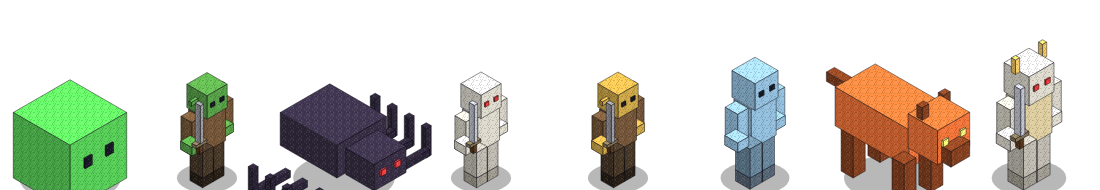
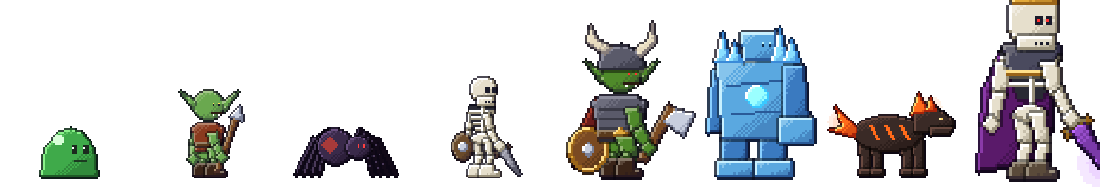
Volta ao 2D pixel art (visão de cima, sem 3D/blocos para o jogador); aura do equipamento por +nível (+4 a +15); site na identidade do jogo: arte pixel, botões de pedra/metal, cantos dourados, brasas no topo, eventos ao vivo e próximos com dados reais (/api/events), ENTRAR NO MUNDO na seleção
Claude-Session: https://claude.ai/code/session_01CgZq2X7nSewJbckutzQBFo

diff --git a/public/index.html b/public/index.html
@@ -9,7 +9,7 @@
   <link rel="icon" href="/favicon.svg" type="image/svg+xml">
   <link rel="stylesheet" href="/css/fonts.css?v=2">
   <link rel="stylesheet" href="/css/style.css?v=23">
-  <link rel="stylesheet" href="/css/landing.css?v=3">
+  <link rel="stylesheet" href="/css/landing.css?v=4">
 </head>
 <body>
   <a class="skip" href="#conteudo">Pular para o conteúdo</a>
@@ -25,6 +25,7 @@
       <a href="#classes">Classes</a>
       <a href="#mapas">Mapas</a>
       <a href="#equipamentos">Equipamentos</a>
+      <a href="#eventos">Eventos</a>
       <a href="#roadmap">Roadmap</a>
       <a href="#noticias">Notícias</a>
       <a href="#ranking">Ranking</a>
@@ -41,7 +42,7 @@
     <section class="hero" id="topo">
       <canvas id="hero-scene" aria-label="Cena animada: os seis heróis enfrentam monstros em Lorencia ao entardecer" role="img"></canvas>
       <div class="hero-copy">
-        <p class="logo-kicker">MMORPG idle · mundo de blocos em 3D</p>
+        <p class="logo-kicker">MMORPG idle · pixel art HD</p>
         <h1 class="logo logo-mc"><span class="lg-a">Muonline</span><span class="lg-b">Claude</span></h1>
         <p class="tagline">O RPG online que joga por você. Seu herói caça sozinho, sobe de nível e junta tesouros até com o jogo fechado, nos mesmos mapas que os outros jogadores.</p>
         <ul class="hero-chips" aria-label="Destaques">
@@ -52,7 +53,7 @@
           <li>PvP quando quiser</li>
         </ul>
         <div class="hero-actions">
-          <button class="btn btn-gold" id="btn-play" type="button" title="Mundo de blocos em 3D">▶ Jogar agora</button>
+          <button class="btn btn-gold" id="btn-play" type="button" title="Jogar no navegador, sem instalar">▶ JOGAR AGORA</button>
           <button class="btn btn-gold play-3d" id="btn-play-3d" type="button" hidden>Jogar 3D</button>
           <button class="btn" id="btn-hero-register" type="button">Criar conta</button>
           <button class="btn btn-ghost" id="btn-hero-ranking" type="button">Ver ranking</button>
@@ -90,9 +91,9 @@
       <h2 id="idle-title">O que é um jogo idle?</h2>
       <div class="idle-grid">
         <figure class="idle-phone">
-          <div class="phone-frame"><img src="/assets/landing/idle-phone.jpg?v=2" width="540" height="1099" loading="lazy"
-            alt="Tela do jogo no celular: o mundo de blocos com o herói, os monstros, o joystick e os botões de ataque"></div>
-          <figcaption>O mundo de blocos no celular: joystick, botões de ataque e o AUTO caçando sozinho.</figcaption>
+          <div class="phone-frame"><img src="/assets/landing/idle-phone.jpg?v=3" width="540" height="1099" loading="lazy"
+            alt="Tela do jogo no celular: o herói caçando no mapa, com o joystick e os botões de ataque"></div>
+          <figcaption>O jogo no celular: joystick, botões de ataque e o AUTO caçando sozinho.</figcaption>
         </figure>
         <div class="idle-copy">
           <p class="idle-lead">Num jogo <b>idle</b> o herói não precisa de você apertando botão o tempo todo. Ele caça, ganha EXP, junta Zen e itens <b>sozinho</b>. Você entra quando quiser para fazer as escolhas que deixam ele mais forte.</p>
@@ -120,7 +121,7 @@
     <section class="block showcase" id="jogo" aria-labelledby="jogo-title">
       <p class="eyebrow">Tudo que tem no jogo</p>
       <h2 id="jogo-title">Um mundo inteiro em pixel art</h2>
-      <figure class="show-hero"><img src="/assets/landing/heroes.png?v=3" alt="As seis classes de frente com asas: Cavaleiro Negro, Mago Negro, Elfa, Gladiador Mágico, Lorde Sombrio e Invocadora" width="1200" height="300"></figure>
+      <figure class="show-hero"><img src="/assets/landing/heroes.png?v=4" alt="As seis classes de frente com asas: Cavaleiro Negro, Mago Negro, Elfa, Gladiador Mágico, Lorde Sombrio e Invocadora" width="1200" height="300"></figure>
       <div class="feat-grid">
         <article class="feat"><b class="feat-num">6</b><h3>Classes de herói</h3><p>Cavaleiro Negro, Mago Negro, Elfa, Gladiador Mágico, Lorde Sombrio e Invocadora, cada um com animações de andar, atacar, levar dano e cair em todas as direções.</p></article>
         <article class="feat"><b class="feat-num">34</b><h3>Mapas até o nível 1000</h3><p>De Lorencia ao Exile: masmorras, desertos, ilhas no céu, torres e abismos, com área segura na entrada de cada mapa de caça.</p></article>
@@ -128,12 +129,12 @@
         <article class="feat"><b class="feat-num">1000</b><h3>Níveis para subir</h3><p>Servidor idle novo: todo mundo começou do nível 1. Monstros mais fortes dão mais experiência.</p></article>
       </div>
       <div class="show-row">
-        <figure class="show-card"><img src="/assets/landing/mount.png?v=3" alt="Fenrir dourado, a montaria do jogo" width="320" height="300" loading="lazy">
+        <figure class="show-card"><img src="/assets/landing/mount.png?v=4" alt="Fenrir dourado, a montaria do jogo" width="320" height="300" loading="lazy">
           <figcaption><h3>Montaria</h3><p>O Fenrir dourado ou vermelho leva seu herói montado, andando, correndo e atacando junto.</p></figcaption></figure>
-        <figure class="show-card"><img src="/assets/landing/wings.png?v=3" alt="Heróis de costas com asas e capa" width="840" height="170" loading="lazy">
+        <figure class="show-card"><img src="/assets/landing/wings.png?v=4" alt="Heróis de costas com asas e capa" width="840" height="170" loading="lazy">
           <figcaption><h3>Asas e conjuntos premium</h3><p>Asas de dragão, de anjo, de espírito e capas do Lorde, com brilho por raridade, e conjuntos que aparecem no herói.</p></figcaption></figure>
       </div>
-      <figure class="show-monsters"><img src="/assets/landing/monsters.png?v=3" alt="Monstros do jogo: geleia, goblin, aranha, esqueleto, chefe goblin, golem de gelo, cão de lava e Rei Esqueleto" width="1100" height="190" loading="lazy">
+      <figure class="show-monsters"><img src="/assets/landing/monsters.png?v=4" alt="Monstros do jogo: geleia, goblin, aranha, esqueleto, chefe goblin, golem de gelo, cão de lava e Rei Esqueleto" width="1100" height="190" loading="lazy">
         <figcaption>Monstros e chefes em todos os mapas: Rei Esqueleto, Rainha de Cristal, Imperador do Vazio, Senhor da Torre, Rei do Exílio e mais.</figcaption></figure>
       <ul class="feat-list">
         <li><b>Caça automática</b> até 8 horas fora do jogo, com relatório na volta</li>
@@ -286,6 +287,12 @@
           </ul>
         </article>
       </div>
+    </section>
+
+    <section class="block" id="eventos" aria-labelledby="ev-title">
+      <p class="eyebrow">Ao vivo no servidor</p>
+      <h2 id="ev-title">Eventos ativos e próximos</h2>
+      <ul class="ev-board" id="ev-board"><li class="muted">Carregando eventos…</li></ul>
     </section>
 
     <section class="block two-col" aria-label="Notícias e ranking">
@@ -463,7 +470,6 @@
 
   <script src="/js/pixel.js?v=31"></script>
   <script src="/js/sprites.js?v=44"></script>
-  <script src="/js/blockart.js?v=3"></script>
-  <script src="/js/app.js?v=9929"></script>
+  <script src="/js/app.js?v=9930"></script>
 </body>
 </html>

diff --git a/public/js/game.js b/public/js/game.js
@@ -821,8 +821,9 @@
   // ---- gráfico 2D ou 3D (escolha do jogador; o servidor e as regras são os mesmos) ----
   const GFX = (() => {
     let q = null; try { q = new URLSearchParams(location.search).get('gfx'); } catch (_) { /* nada */ }
-    if (q === '2d' || q === '3d' || q === 'blocks') { try { localStorage.setItem('mui_gfx', q); } catch (_) { /* nada */ } return q; }
-    try { return localStorage.getItem('mui_gfx') || 'blocks'; } catch (_) { return 'blocks'; }
+    if (q === '3d' || q === 'blocks') return q;   // só por link de teste
+    try { localStorage.setItem('mui_gfx', '2d'); } catch (_) { /* nada */ }
+    return '2d';
   })();
   let is3d = false; // vira true quando o motor 3D carregou e iniciou
   const W3 = () => window.World3D;
@@ -1603,6 +1604,45 @@
   }
 
   // Poeira pixelada sincronizada com o passo, sem adicionar spritesheets ou pesar o celular.
+  // brilho do equipamento pelo +nível (conjunto médio ou arma, o maior):
+  // +4–6 brilho suave · +7–8 aura no chão · +9 brilho forte e faíscas · +10–11 energia pulsando · +12–13 aura intensa
+  // +14 partículas contínuas · +15 aura lendária com raios de luz. Poucas partículas (não atrapalha a visão nem o celular).
+  const AURA_COL = (L) => L >= 15 ? [255, 196, 70] : L >= 14 ? [255, 214, 107] : L >= 12 ? [196, 130, 255] : L >= 9 ? [110, 220, 255] : [160, 205, 255];
+  function plusAura(eq, x, y, h, now, e) {
+    const L = Math.max(Number(eq.ap) || 0, Number(eq.wp) || 0);
+    if (L < 4) return;
+    const [r, g, b] = AURA_COL(L), cy = y - h * 0.45;
+    const pulse = L >= 10 ? 0.75 + 0.25 * Math.sin(now / (L >= 12 ? 160 : 240) + (e.phase || 0)) : 1;
+    const k = (L >= 15 ? 0.6 : L >= 12 ? 0.48 : L >= 9 ? 0.38 : L >= 7 ? 0.26 : 0.16) * pulse;
+    ctx.save(); ctx.globalCompositeOperation = 'lighter';
+    const rad = h * (L >= 12 ? 0.75 : 0.6);
+    const gr = ctx.createRadialGradient(x, cy, 0, x, cy, rad);
+    gr.addColorStop(0, `rgba(${r},${g},${b},${k})`); gr.addColorStop(1, `rgba(${r},${g},${b},0)`);
+    ctx.fillStyle = gr; ctx.fillRect(x - rad, cy - rad, rad * 2, rad * 2);
+    if (L >= 7) {   // aura no chão
+      ctx.strokeStyle = `rgba(${r},${g},${b},${0.35 * pulse + (L >= 12 ? 0.2 : 0)})`; ctx.lineWidth = Math.max(1, dpr * (L >= 12 ? 2 : 1.4));
+      ctx.beginPath(); ctx.ellipse(x, y, h * 0.36, h * 0.12, 0, 0, Math.PI * 2); ctx.stroke();
+    }
+    if (L >= 9) {   // faíscas subindo (mais no +14/+15)
+      const n = L >= 14 ? 8 : L >= 12 ? 6 : 4;
+      for (let i = 0; i < n; i++) {
+        const ph = ((now / (L >= 14 ? 900 : 1300)) + i / n + (e.phase || 0) / 1000) % 1;
+        const px = x + Math.sin(i * 2.4 + now / 500) * h * 0.3, py = y - ph * h * 1.1;
+        ctx.globalAlpha = (1 - ph) * 0.9; ctx.fillStyle = `rgb(${Math.min(255, r + 60)},${Math.min(255, g + 40)},${b})`;
+        const s2 = Math.max(1, Math.round(dpr * (L >= 14 ? 2 : 1.5))); ctx.fillRect(Math.round(px), Math.round(py), s2, s2);
+      }
+      ctx.globalAlpha = 1;
+    }
+    if (L >= 15) {   // raios de luz lendários
+      for (let i = 0; i < 4; i++) {
+        const a = now / 1400 + i * Math.PI / 2, len = h * (0.7 + 0.15 * Math.sin(now / 300 + i));
+        const gl = ctx.createLinearGradient(x, cy, x + Math.cos(a) * len, cy + Math.sin(a) * len * 0.6);
+        gl.addColorStop(0, 'rgba(255,230,150,.35)'); gl.addColorStop(1, 'rgba(255,230,150,0)');
+        ctx.strokeStyle = gl; ctx.lineWidth = dpr * 3; ctx.beginPath(); ctx.moveTo(x, cy); ctx.lineTo(x + Math.cos(a) * len, cy + Math.sin(a) * len * 0.6); ctx.stroke();
+      }
+    }
+    ctx.restore();
+  }
   function drawRunPuff(x, y, now, phase, flip, color) {
     const step = (now / 105 + (phase || 0) / 170) % 1;
     if (step > 0.42) return;
@@ -1923,6 +1963,7 @@
         }
         // montado: quem anda é o Fenrir; o cavaleiro fica sentado (pose parada) e só ataca/usa poder normalmente
         const riderAct = mounted ? act.replace(/^(run|walk)/, 'idle') : act;  // montado: sentado, olhando para o mesmo lado
+        if (!e.dead && eq) plusAura(eq, riderX, y - lift, dim.h * sc, now, e);
         const pxDrawn = !!(window.PX && PX.draw(ctx, e, info.cls, riderAct, now, riderX, y - lift, HERO_H * sc, dpr));
         if (!pxDrawn) Sprites.hero(ctx, info.cls, info.ap, riderAct, t, riderX, y - lift - (mounted ? 0 : runBob) - (mounted ? 0 : idleBob), sc, heroFlip, { once, equip: eq });
         if (mounted) {
@@ -2093,7 +2134,7 @@
   const IDL = { scroll: 0, seed: Math.random() * 1000, dmg: [], kills: 0, lastLv: 0, lvKills: 0, hpPrev: new Map(), enemies: new Map(), walk: 0, zoneT: 0 };
   function idlePref() { try { return localStorage.getItem(IDLE_KEY) !== 'map'; } catch (_) { return true; } }
   const idleMapOk = () => !!(S.map && !S.map.arena);   // em todo lugar, menos dentro das arenas e eventos
-  function idleActive() { return !window.MUI_BLOCKS && idleMapOk() && idlePref(); }
+  function idleActive() { return false; }   // jogo em visão de cima (top-down 2.5D); a tela lateral saiu
   function setIdlePref(on) {
     try { localStorage.setItem(IDLE_KEY, on ? 'idle' : 'map'); } catch (_) { /* sem armazenamento */ }
     paintIdleBtn();
@@ -2104,7 +2145,7 @@
     const can = idleMapOk() && !window.MUI_BLOCKS;
     b.hidden = !can;
     b.textContent = idlePref() ? '🗺 Ver mapa' : '⚔ Tela idle';
-    document.body.classList.toggle('idle-stage', can && idlePref());
+    document.body.classList.toggle('idle-stage', idleActive());
   }
   // paletas de cada tema (céu, morros ao fundo, árvores, chão, trilha, detalhe)
   const IDLE_PAL = {
@@ -3996,7 +4037,7 @@
         <small class="muted">Itens abaixo disso viram Zen na hora.</small></div>
       <label class="cfg-check"><input type="checkbox" id="cfg-pvp" ${st.pvpAuto ? 'checked' : ''}> Atacar jogadores inimigos automaticamente (Vulcanus ou PvP ligado)</label>
       <div class="cfg-row"><label for="cfg-gfx">Gráfico do jogo</label>
-        <select id="cfg-gfx"><option value="blocks">Blocos (3D de cubos)</option><option value="2d">2D (pixel art, aparelho fraco)</option><option value="3d">3D antigo</option></select></div>
+        <select id="cfg-gfx" disabled><option value="2d">2D pixel art</option></select></div>
       <div class="cfg-row"><label for="cfg-quality">Qualidade gráfica</label>
         <select id="cfg-quality"><option value="baixa">Baixa (celular fraco)</option><option value="media">Média</option><option value="alta">Alta</option><option value="ultra">Ultra (mais efeitos)</option></select></div>
       <div class="cfg-row"><label for="cfg-vol">Volume <b id="cfg-vol-v"></b></label><input type="range" id="cfg-vol" min="0" max="100" step="5"></div>

diff --git a/public/css/landing.css b/public/css/landing.css
@@ -157,9 +157,39 @@ body {
   .idle-phone { position: static; width: min(64%, 280px); margin: 0 auto; }
 }
 
-/* visual de blocos: as seções são separadas por uma faixa de grama e terra em blocos */
-.block + .block::before { height: 14px; margin: 0 0 30px; background:
-  linear-gradient(#5aa83a 0 5px, transparent 5px),
-  repeating-linear-gradient(90deg, #8a5a34 0 13px, #7a4e2c 13px 14px),
-  #8a5a34; border-radius: 2px; box-shadow: inset 0 -2px 0 rgba(0,0,0,.25); opacity: .9; }
-.btn { border-radius: 3px; }
+
+/* ================= identidade medieval do jogo (pedra, metal, ouro) ================= */
+/* botões: pedra lapidada com borda de metal; o dourado é metal polido */
+.btn { border-radius: 2px; background: linear-gradient(180deg, #3b4258 0%, #262b3c 55%, #1b1f2c 100%); border: 2px solid #8a7444;
+  box-shadow: inset 0 1px 0 rgba(255,255,255,.12), inset 0 -2px 0 rgba(0,0,0,.4), 0 3px 0 #0b0d14; text-shadow: 0 1px 0 #000; }
+.btn:hover { border-color: #e8b84a; }
+.btn-gold, #btn-play { background: linear-gradient(180deg, #ffe7a0 0%, #e8b84a 45%, #a8771e 100%); color: #2a1a06; border-color: #5a3e10; text-shadow: 0 1px 0 rgba(255,255,255,.35); }
+#btn-play { font-size: clamp(18px, 2.4vw, 22px); letter-spacing: .06em; padding-left: 26px; padding-right: 26px; }
+/* quadros com cantos ornamentais em pixel art */
+.window, .feat, .idle-steps li, .idle-faq details, .ev-board { position: relative; }
+.window::before, .feat::before, .ev-board::before { content: ''; position: absolute; inset: -3px; pointer-events: none;
+  background:
+    linear-gradient(#e8b84a, #e8b84a) left top / 10px 2px no-repeat, linear-gradient(#e8b84a, #e8b84a) left top / 2px 10px no-repeat,
+    linear-gradient(#e8b84a, #e8b84a) right top / 10px 2px no-repeat, linear-gradient(#e8b84a, #e8b84a) right top / 2px 10px no-repeat,
+    linear-gradient(#e8b84a, #e8b84a) left bottom / 10px 2px no-repeat, linear-gradient(#e8b84a, #e8b84a) left bottom / 2px 10px no-repeat,
+    linear-gradient(#e8b84a, #e8b84a) right bottom / 10px 2px no-repeat, linear-gradient(#e8b84a, #e8b84a) right bottom / 2px 10px no-repeat; }
+/* separador: lâmina de espada com joia no meio */
+.block + .block::before { height: 12px; margin: 0 0 30px; background:
+  radial-gradient(circle at 50% 50%, #e0473a 0 4px, #5a1a10 4px 5px, transparent 6px),
+  linear-gradient(90deg, transparent, rgba(232,184,74,.55) 30%, rgba(255,231,160,.9) 50%, rgba(232,184,74,.55) 70%, transparent) center / 100% 2px no-repeat; }
+/* brasas subindo no topo (poucas, leves) */
+.hero::before { content: ''; position: absolute; inset: 0; z-index: 1; pointer-events: none; opacity: .7;
+  background-image: radial-gradient(2px 2px at 12% 90%, #ffb04a, transparent), radial-gradient(2px 2px at 34% 80%, #ffd36b, transparent),
+    radial-gradient(1.5px 1.5px at 58% 95%, #ff8a3a, transparent), radial-gradient(2px 2px at 76% 85%, #ffd36b, transparent), radial-gradient(1.5px 1.5px at 90% 92%, #ffb04a, transparent);
+  background-size: 100% 100%; animation: mc-embers 9s linear infinite; }
+@keyframes mc-embers { from { transform: translateY(0); opacity: .75; } to { transform: translateY(-60%); opacity: 0; } }
+@media (prefers-reduced-motion: reduce) { .hero::before { animation: none; display: none; } }
+/* eventos ao vivo */
+.ev-board { list-style: none; margin: 0; padding: 12px; display: grid; grid-template-columns: repeat(auto-fit, minmax(240px, 1fr)); gap: 10px; background: var(--mc-glass); border: 1px solid var(--mc-line); }
+.ev-item { display: grid; gap: 2px; padding: 10px 12px; background: rgba(8, 12, 25, .7); border: 1px solid rgba(255,255,255,.08); border-left: 4px solid #5a6a8a; }
+.ev-item b { font-size: 17px; color: var(--bone); }
+.ev-item small { color: var(--bone-dim); font-size: 14px; }
+.ev-tag { justify-self: start; font: 700 11px/1 var(--display); letter-spacing: .08em; padding: 3px 6px; background: #2a3048; color: #c8d4ff; }
+.ev-item.live { border-left-color: #e0473a; } .ev-item.live .ev-tag { background: #7a1410; color: #ffd0c0; animation: ev-pulse 1.4s ease-in-out infinite; }
+.ev-item.open { border-left-color: #e8b84a; } .ev-item.open .ev-tag { background: #5a4410; color: #ffe7a0; }
+@keyframes ev-pulse { 50% { opacity: .55; } }

diff --git a/public/js/app.js b/public/js/app.js
@@ -213,9 +213,9 @@
       info.innerHTML = `${li.classList.contains('last') ? '<em class="last-tag">Último jogado</em>' : ''}<b>${esc(c.name)}</b><span>${esc(state.data.classes[c.class].name)} · Nv. ${c.level}${c.resets ? ` · ${c.resets} resets` : ''}</span>
         <span>${esc(mapName)} · ${fmt.format(c.zen)} Zen</span>`;
       const play = document.createElement('a');
-      play.className = 'btn small btn-gold'; play.textContent = '▶ Jogar';
-      play.href = `/game.html?c=${encodeURIComponent(c.id)}&gfx=blocks`;
-      play.title = 'Mundo de blocos em 3D';
+      play.className = 'btn small btn-gold'; play.textContent = '▶ ENTRAR NO MUNDO';
+      play.href = `/game.html?c=${encodeURIComponent(c.id)}&gfx=2d`;
+      play.title = 'Entrar no mundo';
       const play3 = document.createElement('a');
       play3.className = 'btn small btn-gold play-3d'; play3.textContent = 'Jogar 3D'; play3.hidden = true;
       play3.href = `/game.html?c=${encodeURIComponent(c.id)}&gfx=3d`;
@@ -598,6 +598,24 @@
         <h3>${esc(n.title)}</h3><p>${esc(n.body)}</p></li>`).join('') : '<li class="muted">Nenhuma notícia por enquanto.</li>';
     } catch (e) { ul.innerHTML = `<li class="muted">Não foi possível carregar as notícias. ${esc(e.message)}</li>`; }
   }
+  // eventos ao vivo e próximos (a cada minuto, com contagem regressiva)
+  async function loadEvents() {
+    const box = $('#ev-board'); if (!box) return;
+    try {
+      const r = await api('GET', '/api/events');
+      const now = Date.now(), skew = r.now ? now - r.now : 0;
+      const left = (ms) => { const m = Math.max(0, Math.round(ms / 60000)); return m >= 60 ? `${Math.floor(m / 60)}h ${m % 60}min` : `${m} min`; };
+      const ev = r.events || [];
+      box.innerHTML = ev.length ? ev.map((e) => {
+        const live = e.state === 'live', open = e.state === 'open';
+        const when = live ? (e.endsAt ? `termina em ${left(e.endsAt + skew - now)}` : 'acontecendo agora') : e.at ? `começa em ${left(e.at + skew - now)}` : '';
+        return `<li class="ev-item ${live ? 'live' : open ? 'open' : ''}"><b>${esc(e.name)}</b><span class="ev-tag">${live ? 'AO VIVO' : open ? 'INSCRIÇÕES ABERTAS' : 'EM BREVE'}</span>
+          <small>${esc(when)}${e.where ? ' · ' + esc(e.where) : ''}</small></li>`;
+      }).join('') : '<li class="muted">Nenhum evento agendado agora.</li>';
+    } catch (_) { box.innerHTML = '<li class="muted">Não foi possível carregar os eventos.</li>'; }
+  }
+  loadEvents(); setInterval(loadEvents, 60000);
+
   async function loadRanking(by = state.rankBy) {
     state.rankBy = by;
     $$('#ranking .tab').forEach((t) => { const on = t.dataset.by === by; t.classList.toggle('is-on', on); t.setAttribute('aria-selected', on); });
@@ -618,7 +636,7 @@
   try { const q = new URLSearchParams(location.search).get('gfx'); if (q === '2d' || q === '3d') setGfxPref(q); } catch (_) { /* nada */ }
   $('#btn-play-3d').onclick = () => { setGfxPref('3d'); $('#btn-play').dataset.keep = '1'; $('#btn-play').click(); };
   $('#btn-play').onclick = () => {
-    if ($('#btn-play').dataset.keep) delete $('#btn-play').dataset.keep; else setGfxPref('blocks');
+    if ($('#btn-play').dataset.keep) delete $('#btn-play').dataset.keep; else setGfxPref('2d');
     if (!state.me) return openAuth('login', 'Entre na sua conta para jogar. Ainda não tem? Use “Criar conta”.');
     // sempre abre a seleção de heróis (dá para escolher ou criar outro)
     openAccount();

diff --git a/public/js/i18n-en.js b/public/js/i18n-en.js
@@ -2463,5 +2463,19 @@ window.I18N_EN = {
 "MMORPG idle · mundo de blocos em 3D": "Idle MMORPG · 3D block world",
 "Blocos (3D de cubos)": "Blocks (3D cubes)",
 "2D (pixel art, aparelho fraco)": "2D (pixel art, low-end devices)",
-"3D antigo": "Old 3D"
+"3D antigo": "Old 3D",
+"MMORPG idle · pixel art HD": "Idle MMORPG · HD pixel art",
+"▶ JOGAR AGORA": "▶ PLAY NOW",
+"▶ ENTRAR NO MUNDO": "▶ ENTER THE WORLD",
+"O jogo no celular: joystick, botões de ataque e o AUTO caçando sozinho.": "The game on a phone: joystick, attack buttons and AUTO hunting on its own.",
+"2D pixel art": "2D pixel art",
+"Ao vivo no servidor": "Live on the server",
+"Eventos ativos e próximos": "Active and upcoming events",
+"Eventos": "Events",
+"Carregando eventos…": "Loading events…",
+"AO VIVO": "LIVE",
+"INSCRIÇÕES ABERTAS": "REGISTRATION OPEN",
+"EM BREVE": "SOON",
+"Nenhum evento agendado agora.": "No events scheduled right now.",
+"Não foi possível carregar os eventos.": "Could not load the events."
 };

diff --git a/server/index.js b/server/index.js
@@ -686,6 +686,15 @@ route('POST', '/api/admin/vip-prices', async (req) => {
   return { ok: true, message: 'Preços dos VIPs salvos.', plans };
 });
 
+route('GET', '/api/events', async () => {
+  if (!world) return { events: [] };
+  try {
+    const ghost = { charId: '-', level: 1, resets: 0, masterResets: 0, items: [], zen: 0, map: null, arena: null, quests: {}, send() {} };
+    const list = require('./journey').calendar(ghost).map((e) => ({ id: e.id, name: e.name, state: e.state, at: e.at || 0, endsAt: e.endsAt || 0, where: e.where || '' }));
+    return { now: Date.now(), events: list.slice(0, 12) };
+  } catch (e) { console.error('[eventos]', e.message); return { events: [] }; }
+});
+
 route('GET', '/api/news', async () => {
   const { rows } = await db.query('SELECT id, kind, title, body, published_at FROM news ORDER BY published_at DESC LIMIT 10');
   return { news: rows };

diff --git a/public/game.html b/public/game.html
@@ -8,7 +8,7 @@
   <link rel="icon" href="/favicon.svg" type="image/svg+xml">
   <link rel="stylesheet" href="/css/fonts.css?v=2">
   <link rel="stylesheet" href="/css/style.css?v=22">
-  <link rel="stylesheet" href="/css/game.css?v=54">
+  <link rel="stylesheet" href="/css/game.css?v=55">
   <link rel="stylesheet" href="/css/art-upgrade.css?v=7">
   <link rel="stylesheet" href="/css/gfx-fx.css?v=13">
 </head>
@@ -317,6 +317,6 @@
   <script src="/js/music.js?v=1"></script>
   <script src="/js/admin-tools.js?v=25"></script>
   <script src="/js/fenrir.js?v=6"></script>
-  <script src="/js/game.js?v=144"></script>
+  <script src="/js/game.js?v=146"></script>
 </body>
 </html>

diff --git a/public/css/game.css b/public/css/game.css
@@ -834,7 +834,7 @@ body.idle-stage .hud-map .inv-timer { flex-basis: 100%; }
 body.idle-stage #training-hud, body.idle-stage #target-hud { display: none !important; }
 
 /* modo blocos é o padrão: a troca de gráfico fica só nas Opções */
-#gfx-switch { display: none !important; }
+#gfx-switch, #idle-view { display: none !important; }
 
 /* ================= controle de celular: joystick, botões redondos e menu ☰ (de pé ou deitado) ================= */
 .bottom { display: block; padding: 0; height: 0; }

diff --git a/tools/i18n/en_extra.py b/tools/i18n/en_extra.py
@@ -336,4 +336,10 @@ EN_EXTRA = {
     "O baú de caça enche com os monstros que o herói mata, até 3 baús. Cheio, ele para: volte para abrir. A cada 10 níveis tem prêmio.": "The hunting chest fills with the monsters your hero kills, up to 3 chests. When full it stops: come back to open them. Every 10 levels there's a reward.",
     "MMORPG idle · mundo de blocos em 3D": "Idle MMORPG · 3D block world", "Blocos (3D de cubos)": "Blocks (3D cubes)",
     "2D (pixel art, aparelho fraco)": "2D (pixel art, low-end devices)", "3D antigo": "Old 3D",
+    "MMORPG idle · pixel art HD": "Idle MMORPG · HD pixel art", "▶ JOGAR AGORA": "▶ PLAY NOW", "▶ ENTRAR NO MUNDO": "▶ ENTER THE WORLD",
+    "O jogo no celular: joystick, botões de ataque e o AUTO caçando sozinho.": "The game on a phone: joystick, attack buttons and AUTO hunting on its own.",
+    "2D pixel art": "2D pixel art",
+    "Ao vivo no servidor": "Live on the server", "Eventos ativos e próximos": "Active and upcoming events", "Eventos": "Events",
+    "Carregando eventos…": "Loading events…", "AO VIVO": "LIVE", "INSCRIÇÕES ABERTAS": "REGISTRATION OPEN", "EM BREVE": "SOON",
+    "Nenhum evento agendado agora.": "No events scheduled right now.", "Não foi possível carregar os eventos.": "Could not load the events.",
 }
